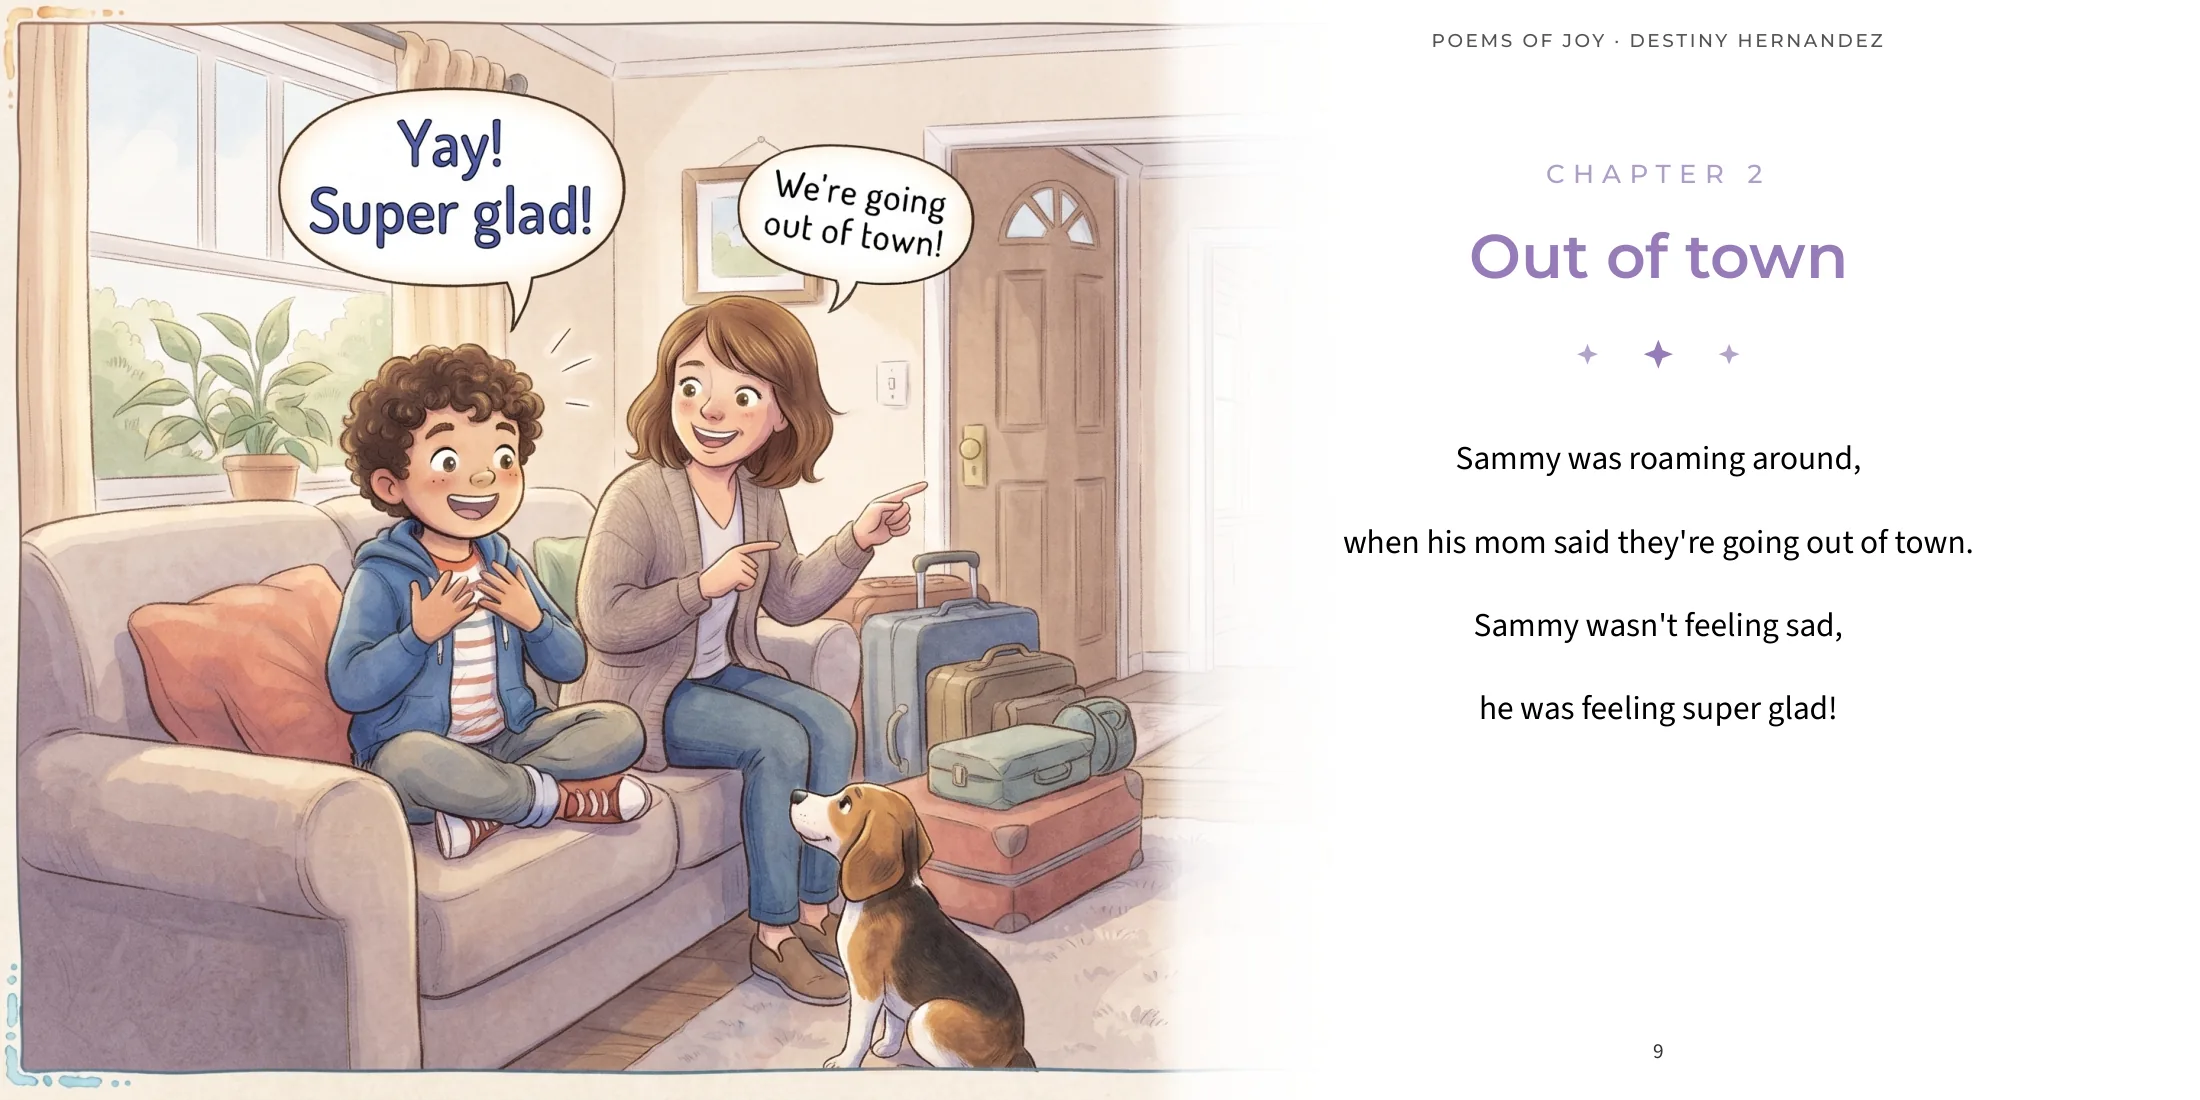
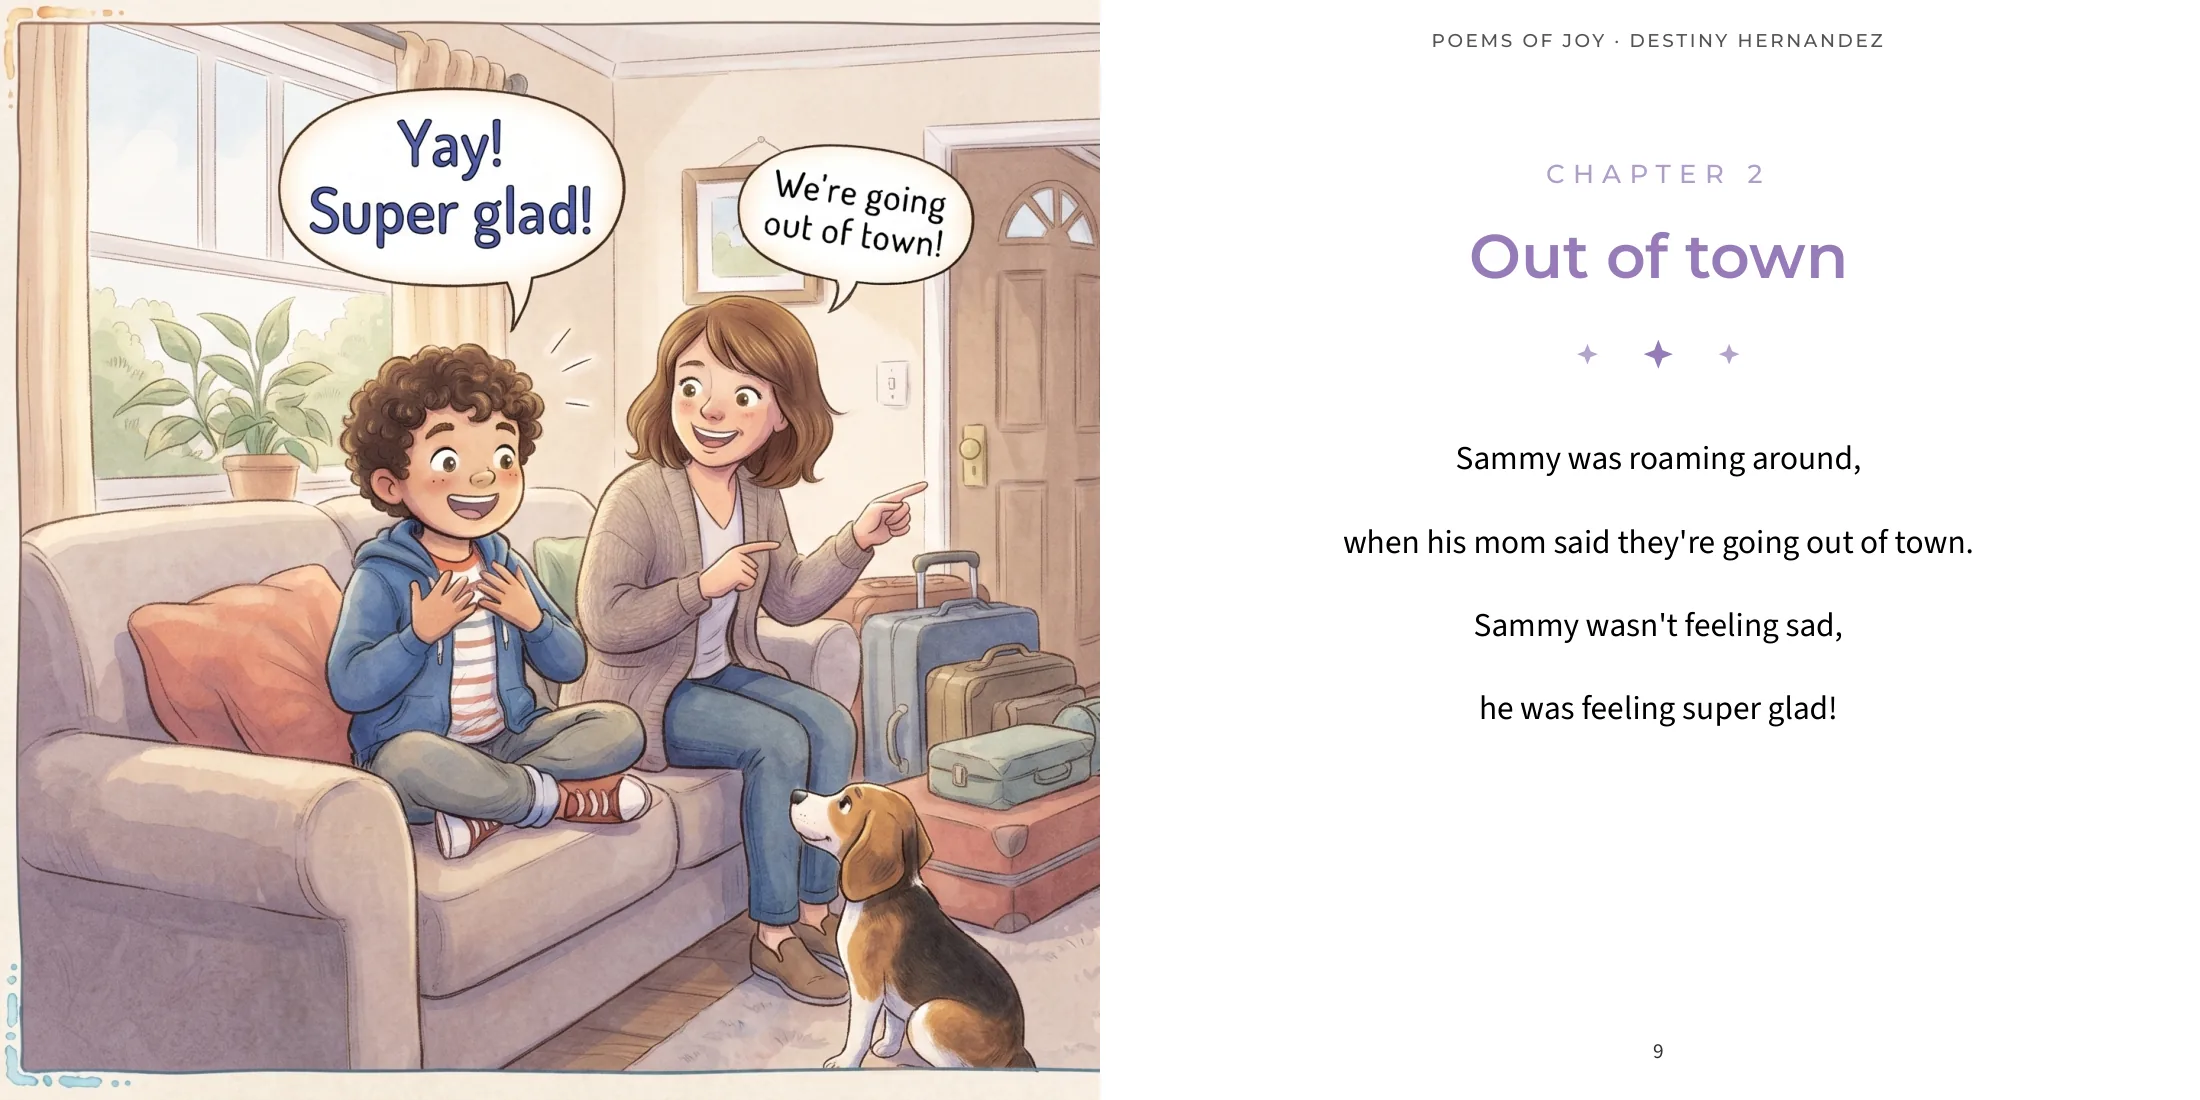
Ramp: Poems of joy, one full-page picture facing each poem (8.25 x 8.25)
V: "JUST SHOW ON 1 PAGE - I DONT WANT THE BLEED" / "JUST SINGLE PHOTO".
No picture crosses to the poem's page any more: each chapter's picture
fills the left page edge to edge, the poem's page is clean white. Chapter
1's picture is cropped around Nora and her stone (she stood right of
centre and the old fade erased her); chapters 2 and 3 keep their left
halves. Printed by Beuk at 8.25 x 8.25, 18 pt, the words unchanged.
The gallery's picture URLs carry a version (PIC_VERSION) so a browser
cannot show the old copy it cached. site-pages + fullscreen-readers 19/19.

Claude-Session: https://claude.ai/code/session_01GatpgiHqoF3PXHks1NV5NV

Changed region(s): [[0.4945, 0.0, 0.5564, 1.0]]

diff --git a/client/site/ramp.html b/client/site/ramp.html
@@ -156,9 +156,9 @@
 
         <div class="shelf" role="list">
           <button class="book" role="listitem" data-book="poems-of-joy" style="--c:#977cb9" aria-label="Open Poems of joy">
-            <span class="cover"><img src="/site/ramp/poems-of-joy/spread-2.webp" width="2200" height="1100" alt="" loading="eager" decoding="async" /></span>
+            <span class="cover"><img src="/site/ramp/poems-of-joy/spread-2.webp?v=nora" width="2200" height="1100" alt="" loading="eager" decoding="async" /></span>
             <span class="t">Poems of joy</span>
-            <span class="m"><b>Poems</b> · 8.25 × 8.25 in · Montserrat over Source Sans 3, in lavender. One wide picture per poem crosses the gutter.</span>
+            <span class="m"><b>Poems</b> · 8.25 × 8.25 in · Montserrat over Source Sans 3, in lavender. A full-page picture faces each poem.</span>
             <span class="open">Open the book →</span>
           </button>
           <button class="book" role="listitem" data-book="rain-on-calder-street" style="--c:#8a5a12" aria-label="Open Rain on Calder Street">
@@ -296,12 +296,14 @@
 
     <script>
       (function(){
+        // a book whose pictures were replaced gets a version here, so no browser shows its old copy
+        var PIC_VERSION = { "poems-of-joy": "nora" };
         var BOOKS = {
           "poems-of-joy": { title: "Poems of joy", c: "#977cb9", w: 2200, h: 1100, spreads: [
             ["The title page stands alone on the right, the way a printed book opens: the title in Montserrat, in the book's lavender, under a trio of stars. The pages are square, 8.25 inches each way.", "The title page of Poems of joy by Destiny Hernandez, on a right-hand page with the left page blank"],
-            ["<b>One wide picture crosses the open book.</b> The left half fills the left page edge to edge; the right half carries on across the gutter and fades before the poem.", "Left: a sunny park, children on the swings and a boy with a backpack on the path under a bright sun. Right: the park carries on across the fold and fades to white behind Chapter One, Nora's discovery, a poem of four lines"],
-            ["The chapter number spaced in small capitals, the title in Montserrat, each line of the poem centred in large 18-point Source Sans 3.", "Left: a curly-haired boy on a sofa, a speech bubble saying Yay, super glad, as his mother points to the packed suitcases and says We're going out of town, a beagle at their feet. Right: the room fades to white behind Chapter 2, Out of town, a poem of four lines"],
-            ["The running head carries the book's title and its author above every poem; each picture was painted wide, for the two pages together.", "Left: a girl on a time-out chair with her arms folded, a speech bubble saying I'm sorry, I'll follow the rules, under Principal's Office, Time Out and Rules signs. Right: the office fades to white behind Chapter 3, In big trouble, a poem of four lines"]
+            ["<b>One picture faces each poem.</b> The picture fills the left page edge to edge; the poem has its page to itself.", "Left: a girl in a striped top and dungarees kneels on the grass in a sunny park and holds up a glowing purple stone, a speech bubble saying Woah beside her, children at the playground behind. Right: Chapter One, Nora's discovery, a poem of four lines"],
+            ["The chapter number spaced in small capitals, the title in Montserrat, each line of the poem centred in large 18-point Source Sans 3.", "Left: a curly-haired boy on a sofa, a speech bubble saying Yay, super glad, as his mother points to the packed suitcases and says We're going out of town, a beagle at their feet. Right: Chapter 2, Out of town, a poem of four lines"],
+            ["The running head carries the book's title and its author above every poem; each picture fills its own page.", "Left: a girl on a time-out chair with her arms folded, a speech bubble saying I'm sorry, I'll follow the rules, under Principal's Office, Time Out and Rules signs. Right: Chapter 3, In big trouble, a poem of four lines"]
           ]},
           "rain-on-calder-street": { title: "Rain on Calder Street", c: "#8a5a12", w: 2208, h: 1104, spreads: [
             ["The title page, set from the book's own details: title, subtitle and author. A printed book opens on a right-hand page.", "The title page of Rain on Calder Street, a novel by J. R. Vance, on a right-hand page with the left page blank"],
@@ -377,7 +379,7 @@
         // closed and opened again.
         var loads = {}, keep = {}, src = {};
 
-        function url(n){ return "/site/ramp/" + cur + "/spread-" + (n + 1) + ".webp"; }
+        function url(n){ var v = PIC_VERSION[cur]; return "/site/ramp/" + cur + "/spread-" + (n + 1) + ".webp" + (v ? "?v=" + v : ""); }
         function paint(el, n, half){
           if (n == null) { el.style.backgroundImage = "none"; return; }
           el.style.backgroundImage = 'url("' + (src[cur + "/" + n] || url(n)) + '")';
